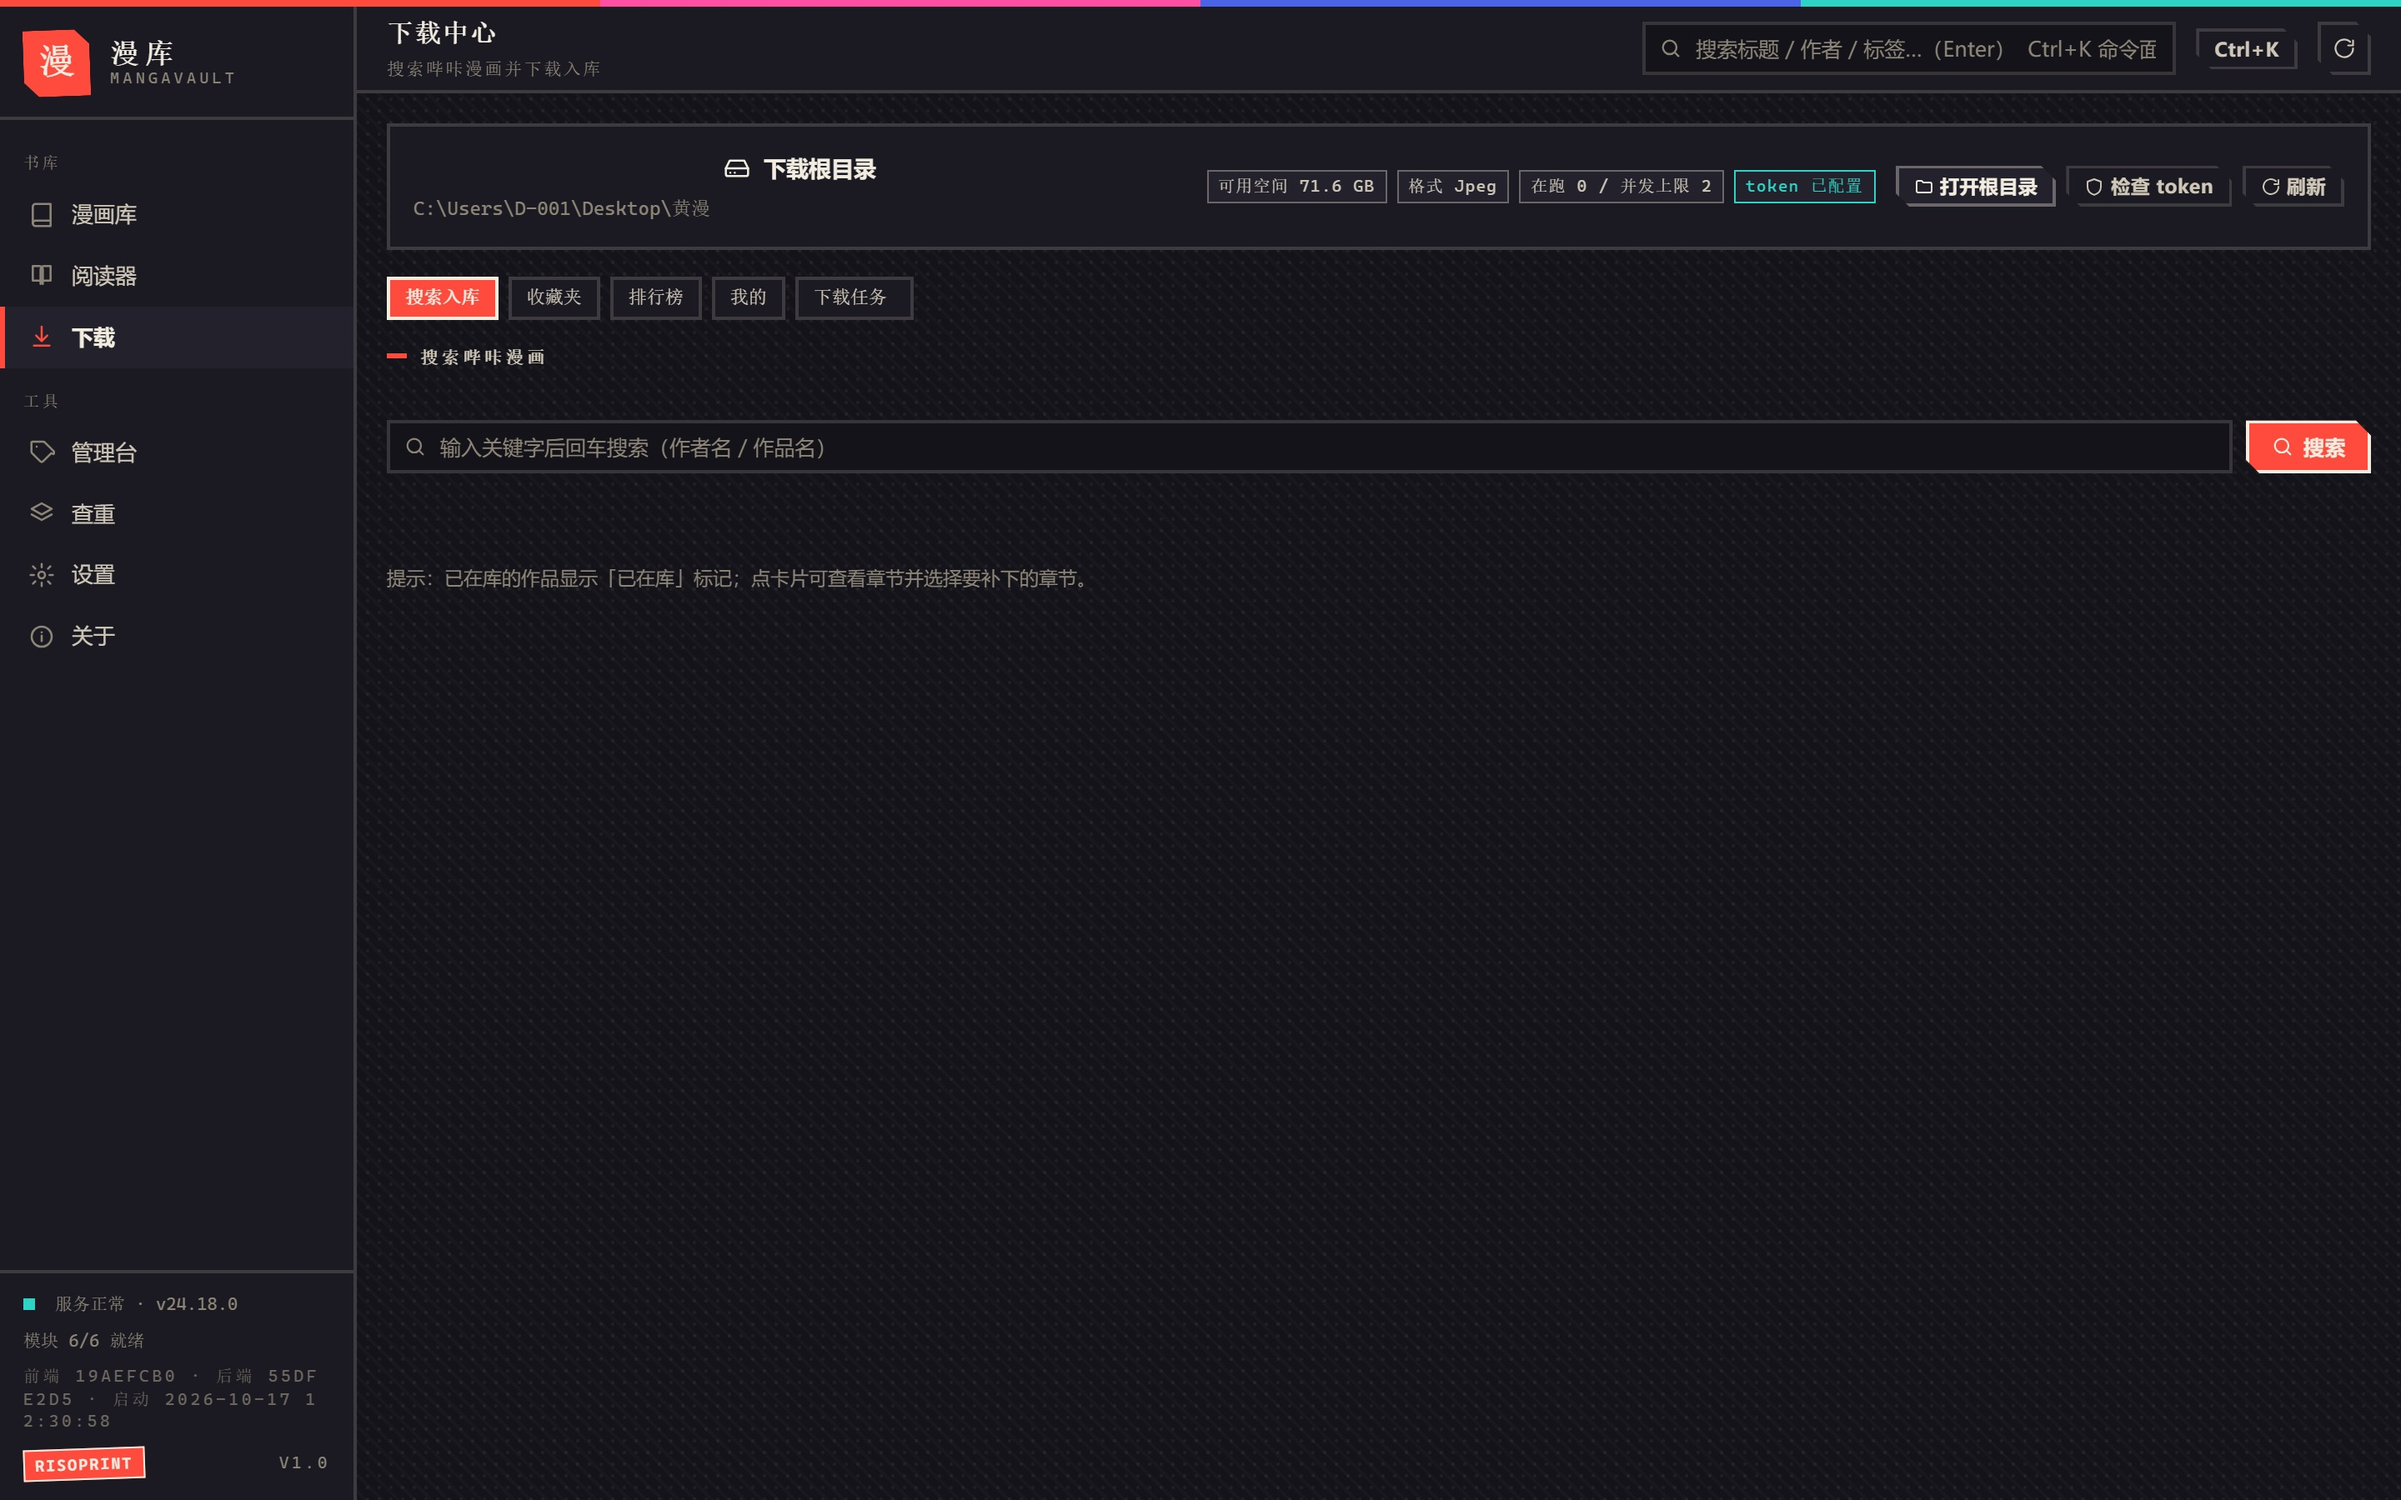
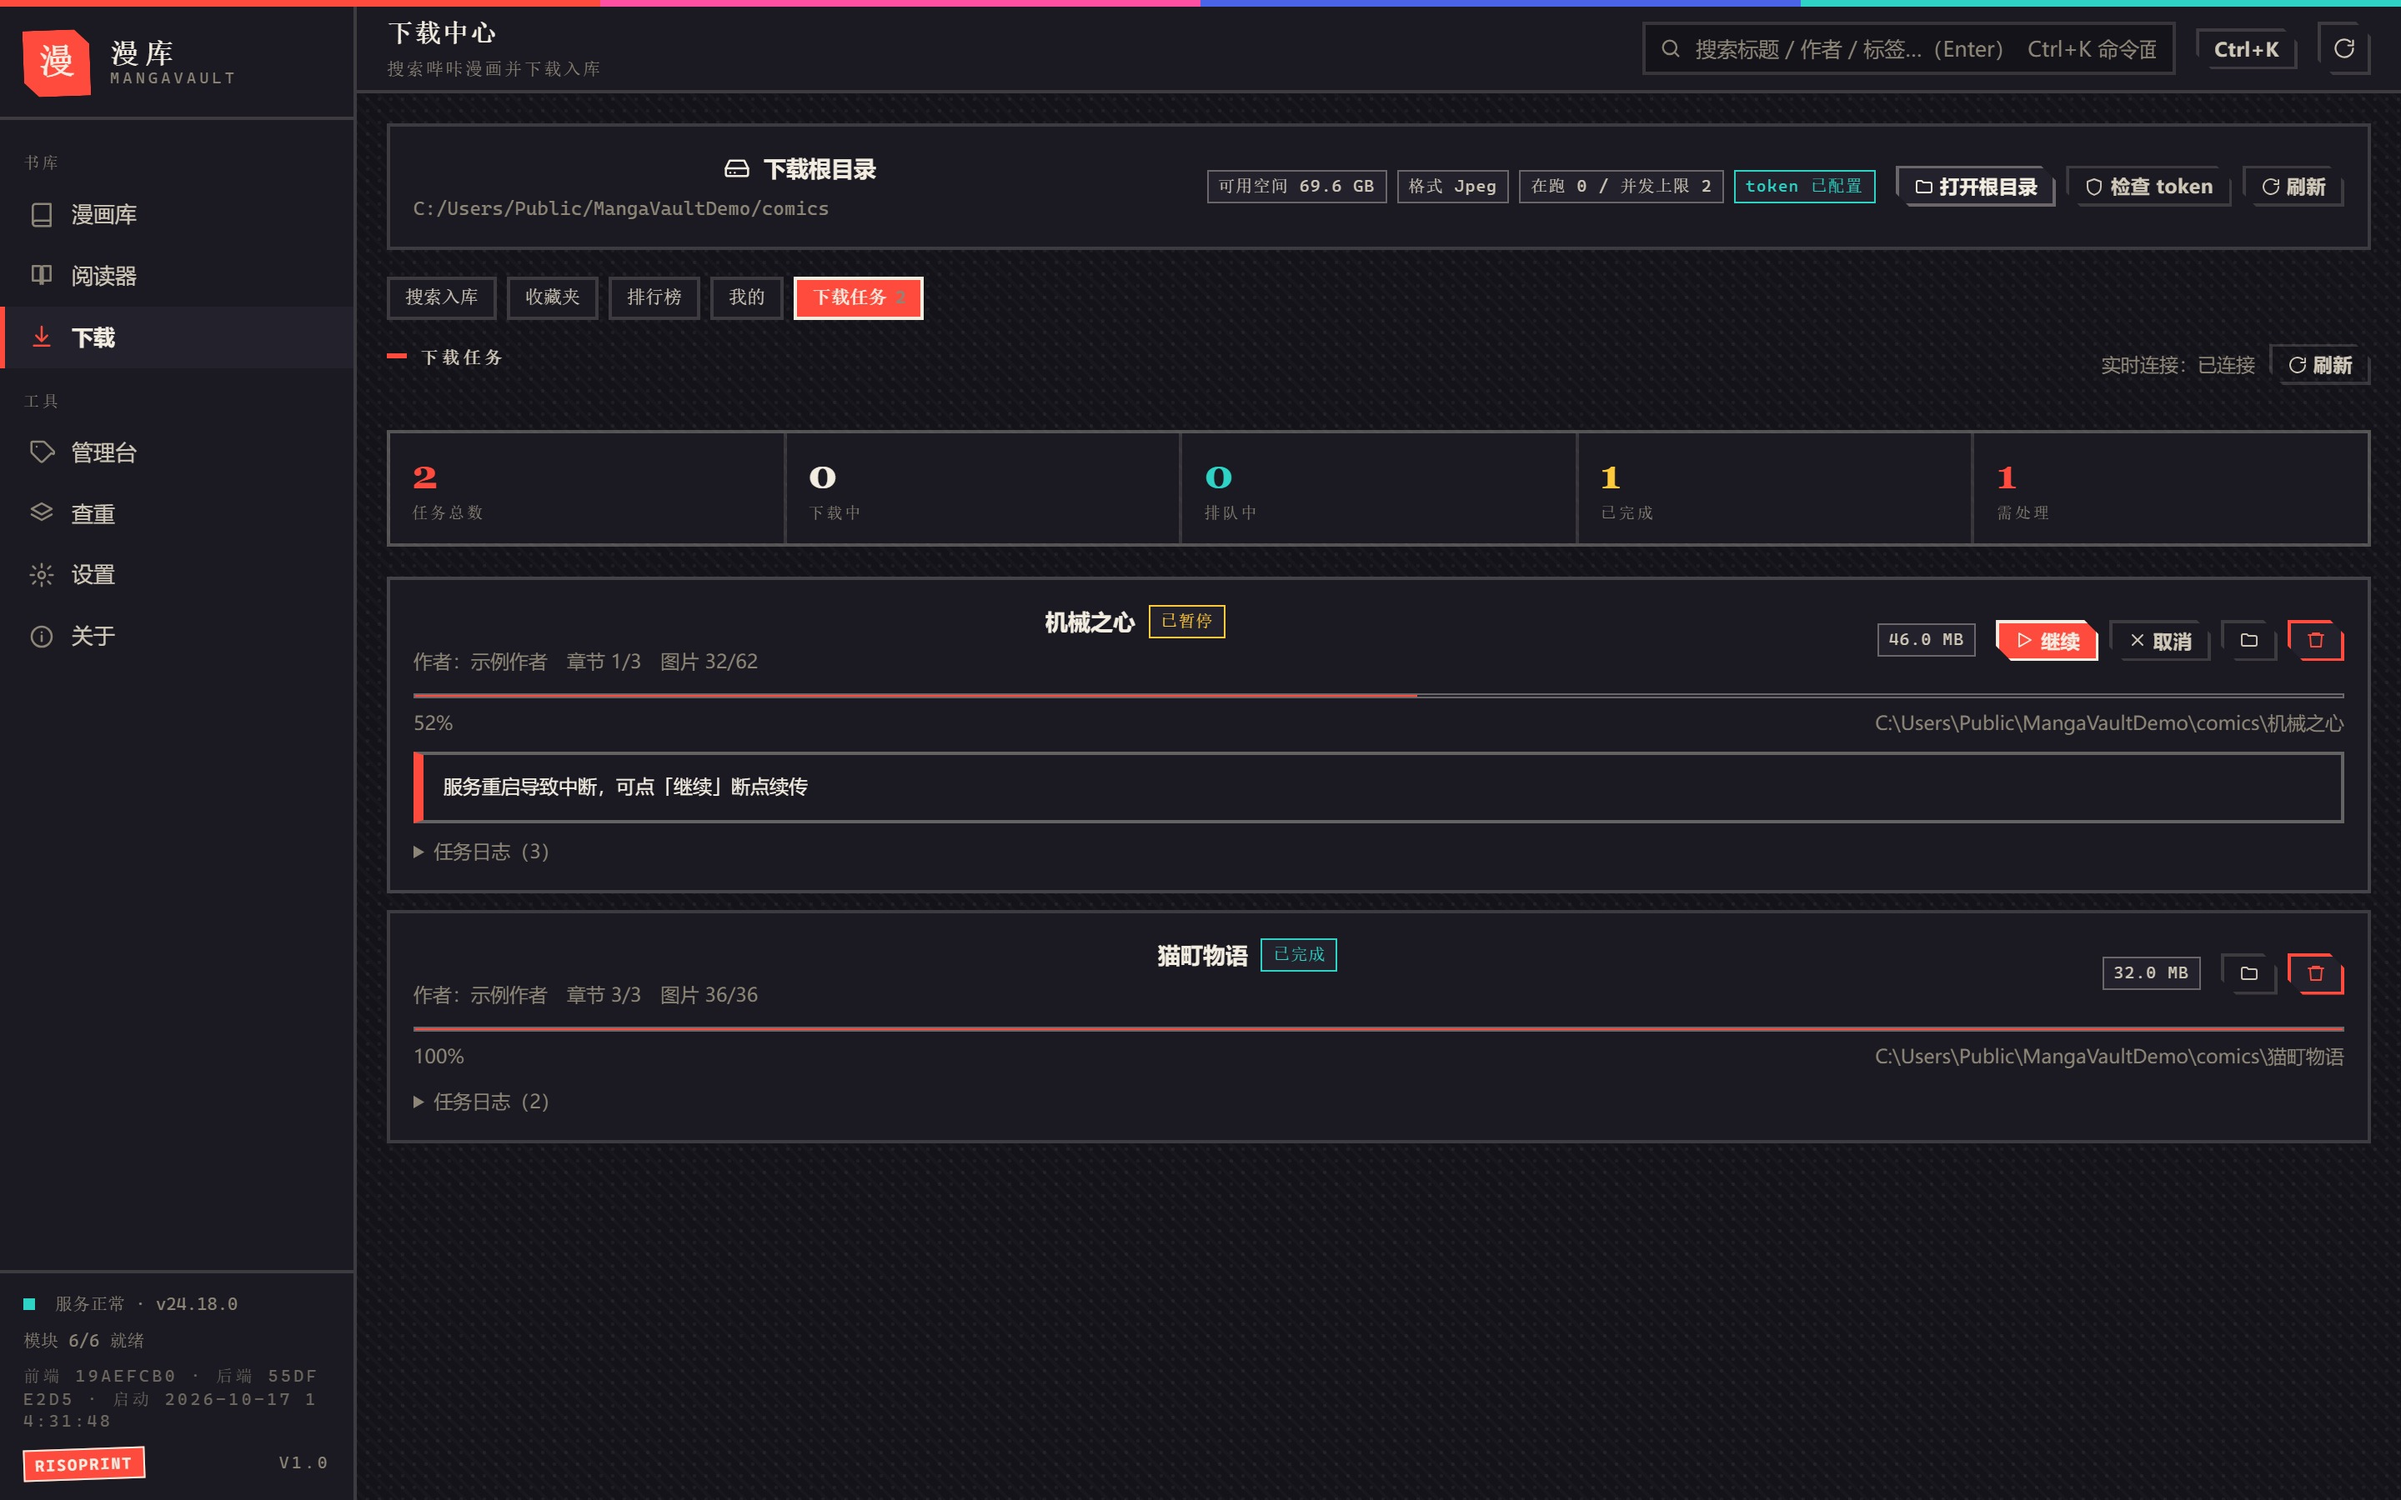
docs: 重拍宣传截图，去掉个人目录并补下载任务示例
公开仓库的截图不该印着 C:\Users\<用户名>\Desktop\…。
把演示库整体搬到 C:/Users/Public/MangaVaultDemo 重新生成 6 张图：

- 搬完之后必须先重跑 POST /api/library/scan，因为 library-index.json 存的是
  绝对路径；否则查重台「库侧」6 张抽样图全部图片读取失败（第一版就踩到了）。
- 快速查重只有预筛、没有像素证据（判定「拿不准」、像素一致 0/6）；
  要展示完整判定必须再跑 POST /api/dedupe/scan {stage:'full'}，
  之后变成「完全重复」+ 像素一致 6/6、统计卡从全 0 变成 12 单元 / 26.6 MB。
- 下载页改截「下载任务」页签（页签是 div.chip 不是 button），
  并手写两条任务记录：一条重启后暂停待续传、一条已完成。

docs/screenshots/README.md 补「关于路径」与「数据准备的两个坑」两节，
README 下载中心那行注明截图是任务页签。

验收：node tests/run-tests.mjs → 1462 通过 / 0 失败。

diff --git a/docs/team/round-progress.md b/docs/team/round-progress.md
@@ -549,6 +549,32 @@ operable program or batch file.
 ### 回归防线（两层，都做过敏感度验证）
 
 1. `tests/reader.test.mjs` 新增 5 条静态契约（64 通过 / 0 失败）：**不得再出现 `new IntersectionObserver` / `function observeWebtoon`**；必须有 `currentPageByScroll` / `onStageScroll` / `trackWebtoon`；`ctx.on(stage, 'scroll', onStageScroll)` 必须存在；`queueAround(n);` 必须存在；`if (scrollBound) return;` 必须存在。
+## 十三、截图重拍：去掉个人路径，换成有内容的界面
+
+上一版 6 张截图有两个不足：①`download.jpg` 顶部印着 `C:\Users\<用户名>\Desktop\黄漫`，公开仓库不该暴露个人目录；②下载页停在空的「搜索入库」，没有内容。
+
+### 做法
+
+| 项 | 改动 |
+| --- | --- |
+| 演示库位置 | `%TEMP%\mv-repo-shots\iso-*` → **`C:/Users/Public/MangaVaultDemo`**（Windows 公共目录） |
+| 配置 | demo `config.json` 补 `downloadRoot`，三个路径全部指向新位置 |
+| 下载任务 | 手写两条 `download-tasks.json` 记录：一条 `paused`（52%、图片 32/62、含「服务重启导致中断」告警与 3 条日志）、一条 `done`（36/36） |
+| 截图页签 | 下载页先点 `.chip` 里的「下载任务」再截（第一次用 `button` 选择器选不到，页签是 `div.chip`） |
+
+### 两个必须重跑的步骤（否则截图会退化）
+
+1. **`library-index.json` 里存的是绝对路径**：把演示库从 `%TEMP%` 复制到 `Public` 之后，索引仍指向旧路径 → 查重台「库侧」6 张抽样图全部显示**图片读取失败**（第一版重拍就踩到了，`dedupe.jpg` 上 6 个灰框）。必须先 `POST /api/library/scan` 重新索引。
+2. **快速查重只有预筛、没有像素证据**：`stage=fast` 时判定是「未判定/拿不准」、`像素一致 0/6`；跑 `POST /api/dedupe/scan {stage:'full'}` 后变成**「完全重复」+ `像素一致 6/6`**，统计卡也从全 0 变成 12 单元 / 11 完全重复 / 1 部分重复 / 26.6 MB。演示截图取后者。
+
+最终 6 张（`docs/screenshots/`）：library 643KB、reader 185KB（内容未变，重新生成后字节一致）、dedupe 538KB、vault 638KB、download 533KB、settings 497KB。逐张目视复核：无真实内容、无 R18、无个人路径。
+
+### 文档同步
+
+- `README.md`：下载中心那行补「上图为任务页签，一条重启后暂停待续传、一条已完成」。
+- `docs/screenshots/README.md` 32 → **45 行**：补「关于路径」（为什么要用 `C:/Users/Public`、为什么不能用 `%TEMP%`）与「数据准备的两个坑」（索引绝对路径、fast 与 full 的观感差别）。
+
+验收：`node tests/run-tests.mjs` **1462 通过 / 0 失败**（截图与文档改动不影响测试）。
 ## 十、宣传打磨（README / 模板 / Release / 仓库描述）
 
 ### 10.1 演示夹具（虚构内容，规避任何真实漫画）

diff --git a/docs/screenshots/README.md b/docs/screenshots/README.md
@@ -18,9 +18,9 @@
 | --- | --- |
 | `library.jpg` | 漫画库：多库根合并索引、网格视图、标签与元数据筛选 |
 | `reader.jpg` | 阅读器：单页模式 + 顶部工具栏 + 底部翻页条 |
-| `dedupe.jpg` | 查重台：候选复核，左查重侧 / 右库侧并排抽样图 |
+| `dedupe.jpg` | 查重台：候选复核，左查重侧 / 右库侧并排抽样图（跑过完整扫描后才有像素证据） |
 | `vault.jpg` | 管理台：标签墙与批量勾选 |
-| `download.jpg` | 下载中心：搜索入库页签 |
+| `download.jpg` | 下载中心：下载任务页签（一条断点续传中的暂停任务 + 一条已完成） |
 | `settings.jpg` | 设置：库根 / 哔咔账号 / 代理 / 查重阈值 |
 
 ## 怎么重新生成
@@ -32,3 +32,14 @@
 - 阅读器的工具栏与翻页条 2.8 秒后自动隐藏，截图前必须先 `Input.dispatchMouseEvent` 移动鼠标让它们显形；
 - 查重台要先进「候选复核」（快速查重跑过才有内容）；
 - 必须用隔离的 `MV_DATA_DIR`，绝不能指向真实数据目录。
+
+## 关于路径
+
+截图里出现的库根路径是 `C:/Users/Public/MangaVaultDemo`（Windows 的公共目录），不是任何人的个人目录。
+**不要用 %TEMP% 下的隔离目录截图**：那会把 `C:\Users\<用户名>\AppData\Local\...` 整条路径印在界面上。
+
+## 数据准备的两个坑
+
+1. **索引里存的是绝对路径**：把演示库从 A 复制到 B 之后，`library-index.json` 里的 `dir` 仍指向 A。必须先跑一次 `POST /api/library/scan` 重新索引，否则查重台的「库侧」抽样图全部读不到（页面显示「图片读取失败」）。
+2. **快速查重的 `scan-fast.json` 里也存了根路径与索引来源**：快速模式只保证「候选单元 + 标题页数」，像素证据要跑 **`POST /api/dedupe/scan {stage:'full'}`** 才有（该形态下判定会是「完全重复」，`像素一致 6/6`）。只想展示预筛效果就停在 fast，想展示完整判定就跑 full —— 两张图的观感差别很大，按需要选。
+
